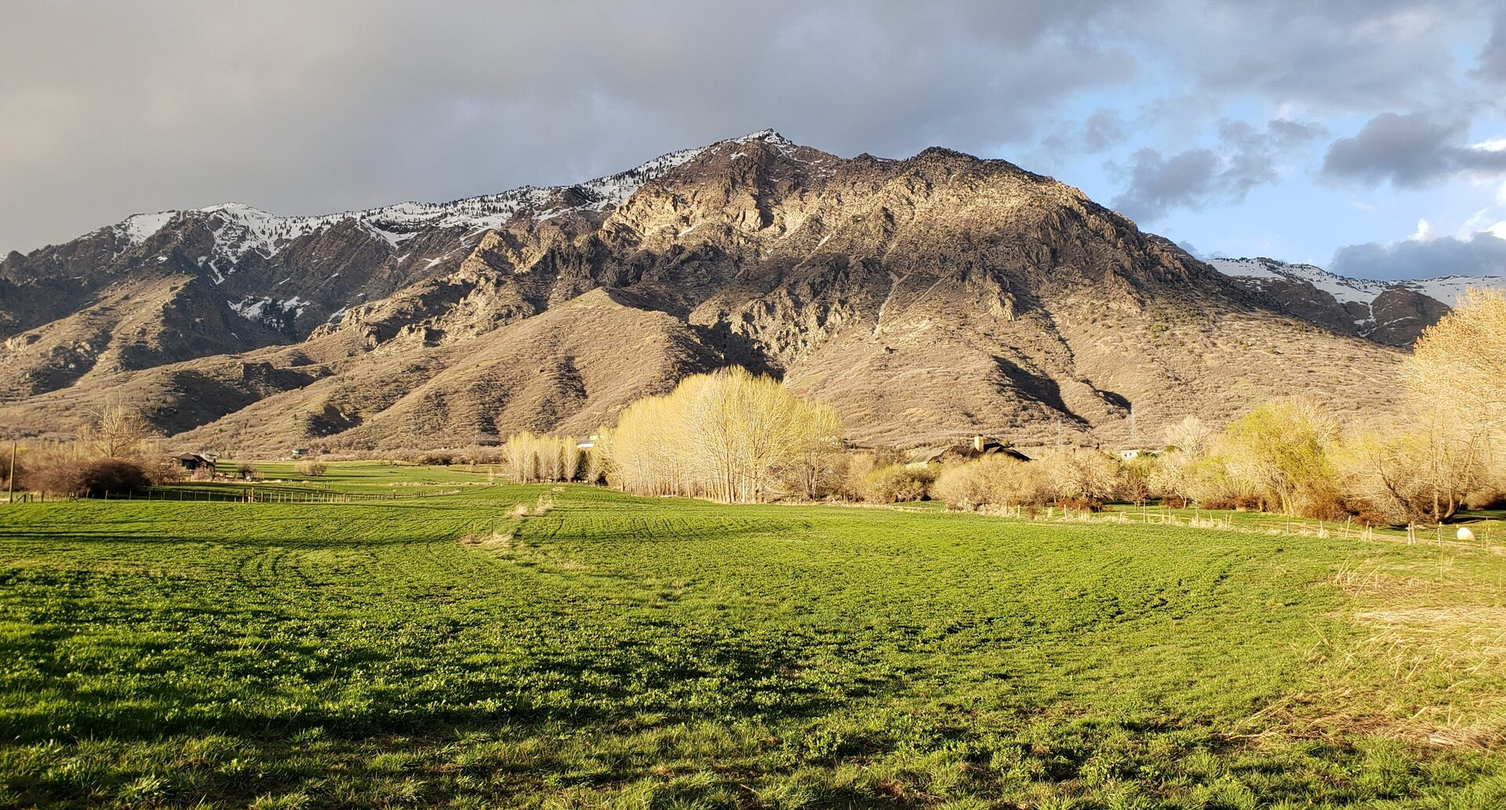
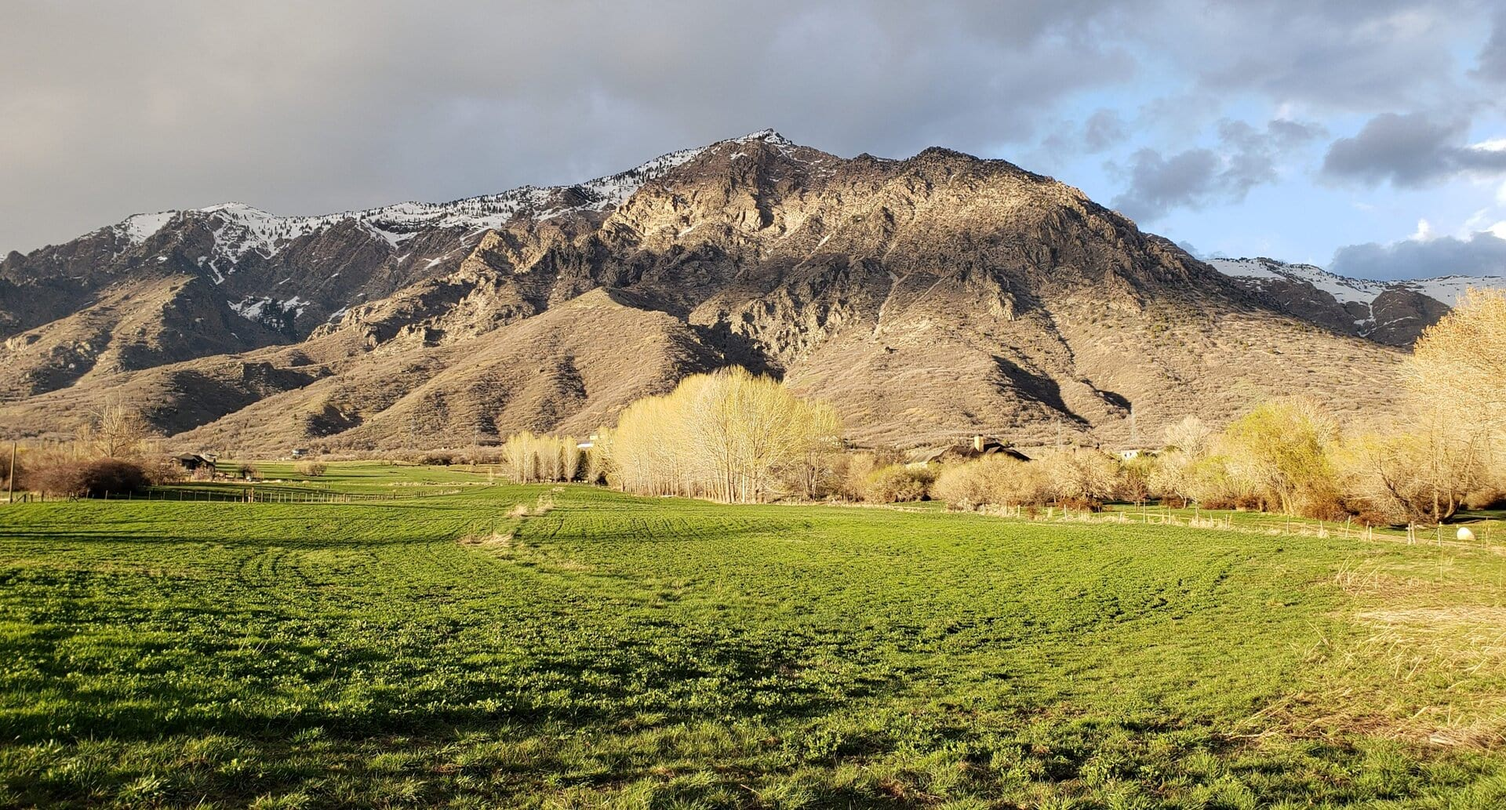
Fix navmenu positioning; optimize images

diff --git a/src/assets/css/site.css b/src/assets/css/site.css
@@ -22,7 +22,7 @@ body{
     height: 100%;
     z-index: -1;
     opacity: 0.5;
-    background-image: url('/assets/images/ben-lomond-large.jpg');
+    background-image: url('/assets/images/opt/ben-lomond-small.jpg');
     background-size: cover;
     background-repeat: no-repeat;
     background-position: center 20%;
@@ -41,14 +41,25 @@ footer.footer{
     padding-bottom: 1rem;
 }
 
-@media (max-width: 768px){
+.navbar-menu.is-active {
+    position: absolute;
+    width: 100%;
+}
+
+@media (min-width: 768px){
     .hero:after{
-        background-image: url('/assets/images/ben-lomond-small.jpg');
+        background-image: url('/assets/images/opt/ben-lomond-med.jpg');
     }
 }
 
-@media (max-width: 1920px){
+@media (min-width: 1920px){
     .hero:after{
-        background-image: url('/assets/images/ben-lomond-med.jpg');
+        /* background-image: url('/assets/images/ben-lomond-large.jpg'); */
+    }
+}
+
+@media (min-width: 2560px){
+    .hero:after{
+        background-image: url('/assets/images/ben-lomond-large.jpg');
     }
 }
